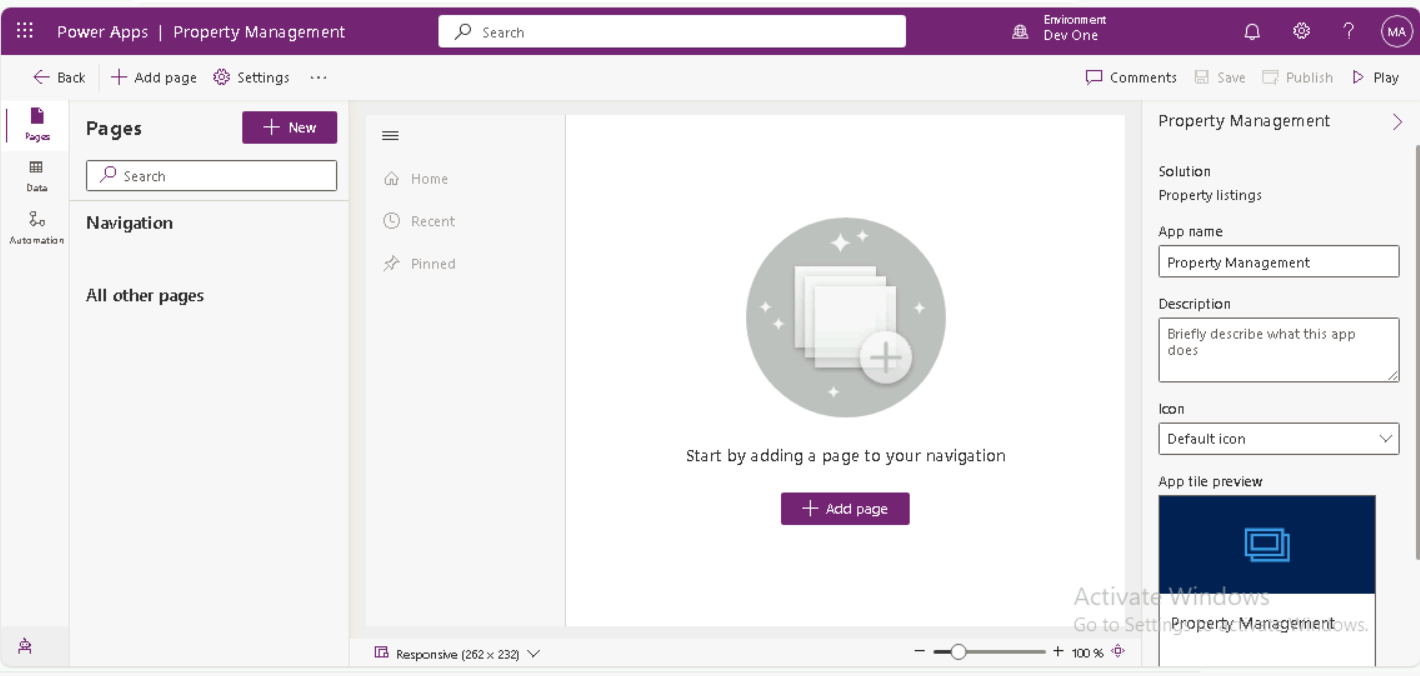
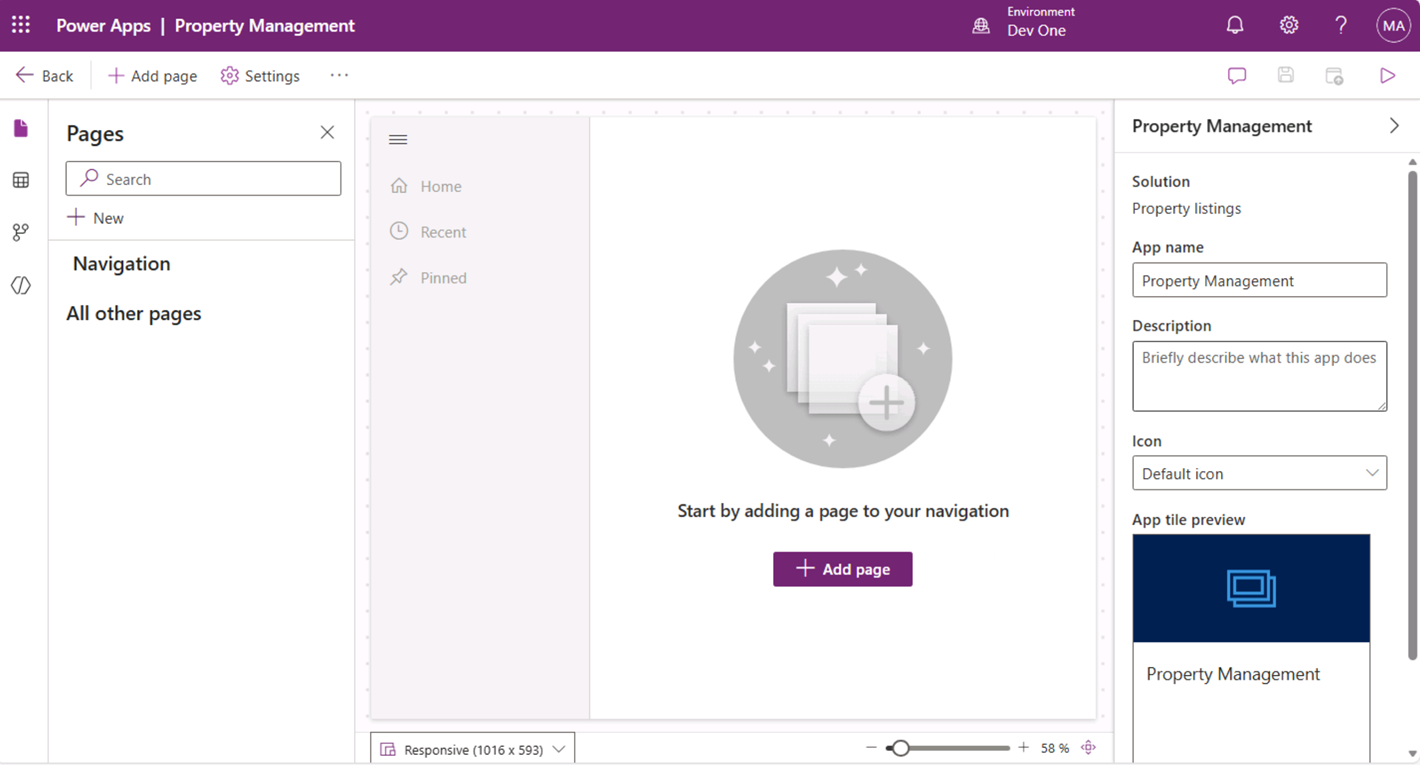
Replace mda-designer.png to reflect the current UI

diff --git a/Instructions/Labs/LAB[PL-7003]_M02L01_Create_mda.md b/Instructions/Labs/LAB[PL-7003]_M02L01_Create_mda.md
@@ -49,7 +49,7 @@ In this exercise, you will create a model-driven app.
 
 1. Open the **Property listings** solution.
 
-1. Select **+ New** and then select **App** and select **Model-driven app**.
+1. Select **+ New** > **App** > **Model-driven app**.
 
     ![Screenshot of new model-driven app dialog.](../media/new-mda.png)
 
